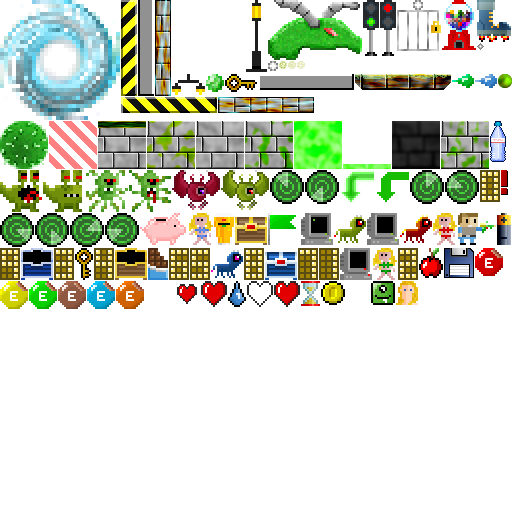
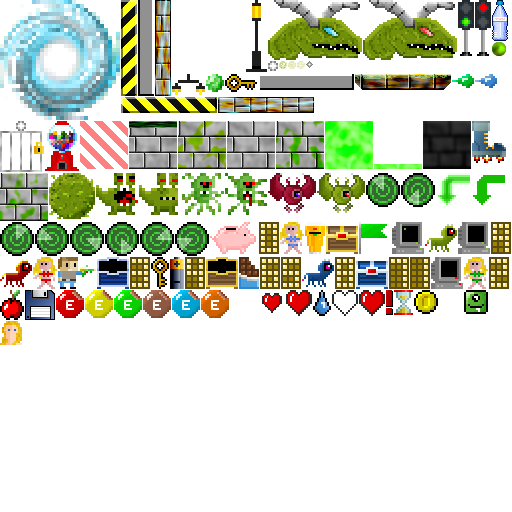
Snake boss updates.

diff --git a/src/entities/snakeBoss.c b/src/entities/snakeBoss.c
@@ -38,6 +38,7 @@ static void updateBodyParts(void);
 static Entity *head;
 static Entity *bodyPart[MAX_BODY_PARTS];
 static Entity *leftFlag, *rightFlag, *originFlag;
+static AtlasImage *straightAtlasImage, *aimedAtlasImage;
 static int deathCounter;
 static int killPart;
 static int thinkTime;
@@ -68,7 +69,10 @@ void initSnakeBoss(Entity *e)
 	e->damage = damage;
 	e->touch = touch;
 
-	e->atlasImage = getAtlasImage("gfx/entities/snakeBossHead.png", 1);
+	straightAtlasImage = getAtlasImage("gfx/entities/snakeBossHead1.png", 1);
+	aimedAtlasImage = getAtlasImage("gfx/entities/snakeBossHead2.png", 1);
+
+	e->atlasImage = straightAtlasImage;
 	e->w = e->atlasImage->rect.w;
 	e->h = e->atlasImage->rect.h;
 
@@ -77,7 +81,7 @@ void initSnakeBoss(Entity *e)
 	thinkTime = 0;
 	shotsToFire = 0;
 	reload = 0;
-	shotType = 0;
+	shotType = SHOT_TYPE_STRAIGHT;
 	deathCounter = 0;
 	hitTimer = 0;
 	killPart = MAX_BODY_PARTS;
@@ -160,6 +164,19 @@ static void retract(void)
 		thinkTime = rrnd(FPS, FPS * 2);
 
 		self->tick = emerge;
+
+		/* select shot type */
+		if (rand() % 2)
+		{
+			shotType = SHOT_TYPE_STRAIGHT;
+			self->atlasImage = straightAtlasImage;
+		}
+		else
+		{
+			shotType = SHOT_TYPE_AIMED;
+			self->atlasImage = aimedAtlasImage;
+		}
+
 	}
 }
 
@@ -199,8 +216,6 @@ static void damage(int amount, int type)
 		if (b->health == 0)
 		{
 			self->tick = killBoss;
-
-			hitTimer = 0;
 		}
 	}
 }
@@ -210,7 +225,6 @@ static void preFire(void)
 	if (rand() % 2 == 0)
 	{
 		shotsToFire = rrnd(3, 8);
-		shotType = rand() % 3;
 	}
 }
 
@@ -220,7 +234,7 @@ static void fireShots(void)
 	{
 		switch (shotType)
 		{
-			case 0:
+			case SHOT_TYPE_AIMED:
 				initAimedSlimeBullet(self, world.player);
 				break;
 
@@ -239,6 +253,8 @@ static void fireShots(void)
 
 static void killBoss(void)
 {
+	hitTimer = 0;
+
 	if (deathCounter % (FPS / 4) == 0)
 	{
 		if (killPart == MAX_BODY_PARTS)

diff --git a/src/entities/snakeBoss.h b/src/entities/snakeBoss.h
@@ -20,7 +20,9 @@ Foundation, Inc., 59 Temple Place - Suite 330, Boston, MA  02111-1307, USA.
 
 #include "../common.h"
 
-#define MAX_BODY_PARTS 12
+#define MAX_BODY_PARTS         12
+#define SHOT_TYPE_STRAIGHT     0
+#define SHOT_TYPE_AIMED        1
 
 extern void activateEntities(char *targetName, int activate);
 extern void addToQuadtree(Entity *e, Quadtree *root);
